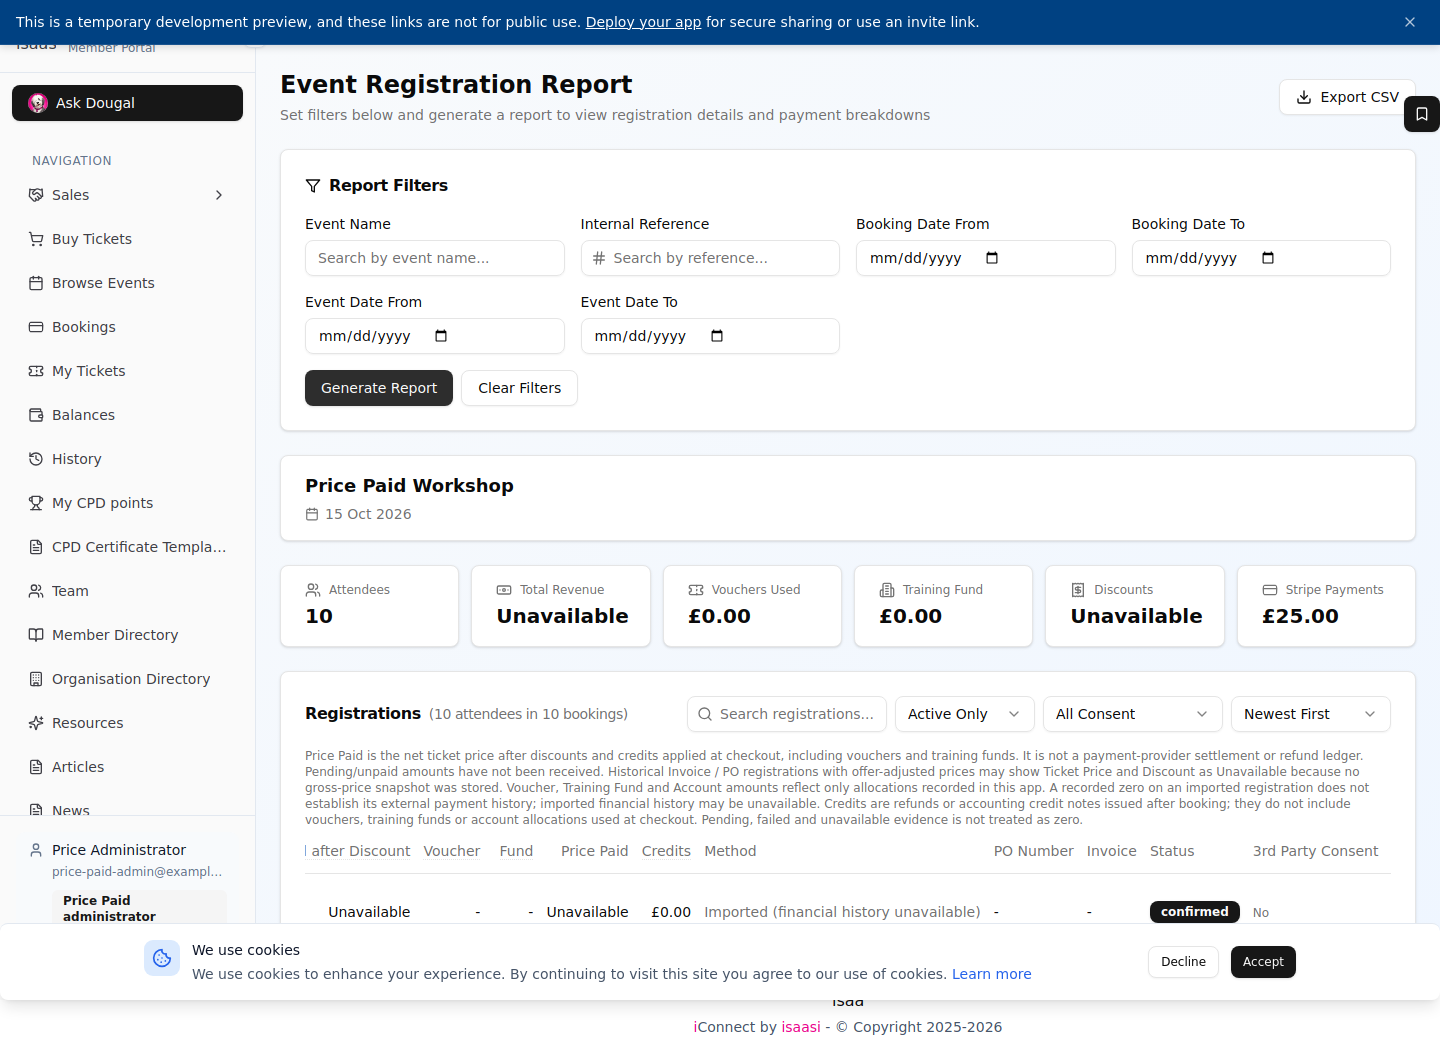
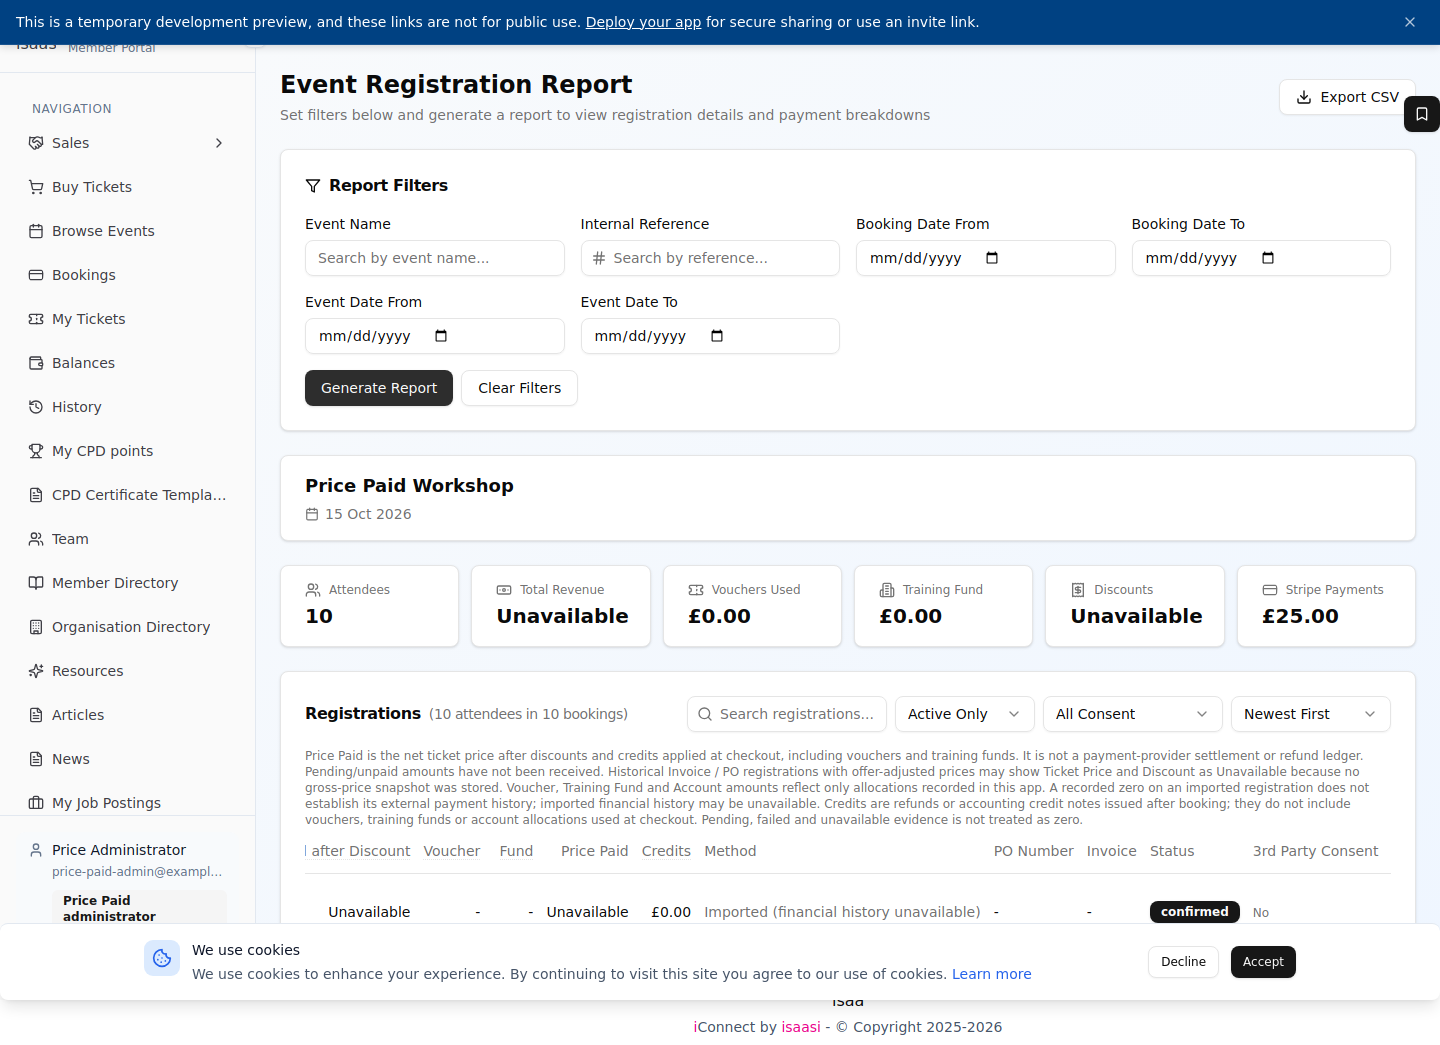
Respect tenant event payment policy in registration report summary cards
Replit-Task-Id: 8790a2ee-4807-4d44-98ab-3ddf7d2a7297
Replit-Merge-Attempt: MergeTask:8790a2ee-4807-4d44-98ab-3ddf7d2a7297:1:c9ae0de0

diff --git a/client/src/pages/EventRegistrationReport.jsx b/client/src/pages/EventRegistrationReport.jsx
@@ -1,5 +1,7 @@
 import { useState, useMemo, useEffect, useRef, useCallback } from "react";
 import { useQuery, useMutation, useQueryClient } from "@tanstack/react-query";
+import { base44 } from "@/api/base44Client";
+import { resolveEventPaymentPolicy } from "../../../shared/eventPaymentPolicy.js";
 import { Card, CardContent, CardHeader, CardTitle } from "@/components/ui/card";
 import { Input } from "@/components/ui/input";
 import { Button } from "@/components/ui/button";
@@ -317,6 +319,26 @@ export default function EventRegistrationReport() {
   const { isFeatureExcluded, isAccessReady, memberInfo } = useMemberAccess();
   const queryClient = useQueryClient();
   const [accessChecked, setAccessChecked] = useState(false);
+  const paymentSettingsQuery = useQuery({
+    // Prefix matches Event Settings save invalidation; identity prevents reuse
+    // of another tenant/viewer's settings.
+    queryKey: ['system-settings', 'event-report-payment-policy', memberInfo?.tenant_id, memberInfo?.id],
+    queryFn: async ({ signal }) => {
+      const rows = await base44.entities.SystemSettings.list({ signal });
+      if (!Array.isArray(rows)) throw new Error('Unable to load event payment settings');
+      return rows;
+    },
+    enabled: isAccessReady && !!memberInfo?.tenant_id,
+    staleTime: 0,
+    refetchOnMount: 'always',
+    retry: false,
+  });
+  // Missing keys default on only after a successful load, never while loading,
+  // revalidating saved settings, or after a failed request (including refetch).
+  const paymentPolicy = paymentSettingsQuery.isSuccess && !paymentSettingsQuery.isFetching
+    && isAccessReady && !!memberInfo?.tenant_id
+    ? resolveEventPaymentPolicy(paymentSettingsQuery.data)
+    : null;
 
   const [filterEventName, setFilterEventName] = useState("");
   const [selectedEvent, setSelectedEvent] = useState(null);
@@ -1973,7 +1995,7 @@ export default function EventRegistrationReport() {
 
       {reportGenerated && !isLoading && (
         <>
-          <div className="grid grid-cols-2 md:grid-cols-4 lg:grid-cols-6 gap-3">
+          <div className="grid grid-cols-2 md:grid-cols-[repeat(auto-fit,minmax(150px,1fr))] gap-3">
             <Card>
               <CardContent className="pt-4 pb-4">
                 <div className="flex items-center gap-2 mb-1">
@@ -1995,7 +2017,7 @@ export default function EventRegistrationReport() {
                 <p className="text-xl font-bold" data-testid="text-total-revenue">{filteredSummary.hasUnavailableRevenue ? 'Unavailable' : formatCurrency(filteredSummary.totalRevenue)}</p>
               </CardContent>
             </Card>
-            <Card>
+            {paymentPolicy?.allowVoucherPayment && <Card>
               <CardContent className="pt-4 pb-4">
                 <div className="flex items-center gap-2 mb-1">
                   <Ticket className="w-4 h-4 text-muted-foreground" />
@@ -2003,8 +2025,8 @@ export default function EventRegistrationReport() {
                 </div>
                 <p className="text-xl font-bold" data-testid="text-total-vouchers">{filteredSummary.hasUnavailableVoucher ? 'Unavailable' : formatCurrency(filteredSummary.totalVoucher)}</p>
               </CardContent>
-            </Card>
-            <Card>
+            </Card>}
+            {paymentPolicy?.allowTrainingFundPayment && <Card>
               <CardContent className="pt-4 pb-4">
                 <div className="flex items-center gap-2 mb-1">
                   <Building2 className="w-4 h-4 text-muted-foreground" />
@@ -2012,7 +2034,7 @@ export default function EventRegistrationReport() {
                 </div>
                 <p className="text-xl font-bold" data-testid="text-total-fund">{filteredSummary.hasUnavailableFund ? 'Unavailable' : formatCurrency(filteredSummary.totalTrainingFund)}</p>
               </CardContent>
-            </Card>
+            </Card>}
             <Card>
               <CardContent className="pt-4 pb-4">
                 <div className="flex items-center gap-2 mb-1">
